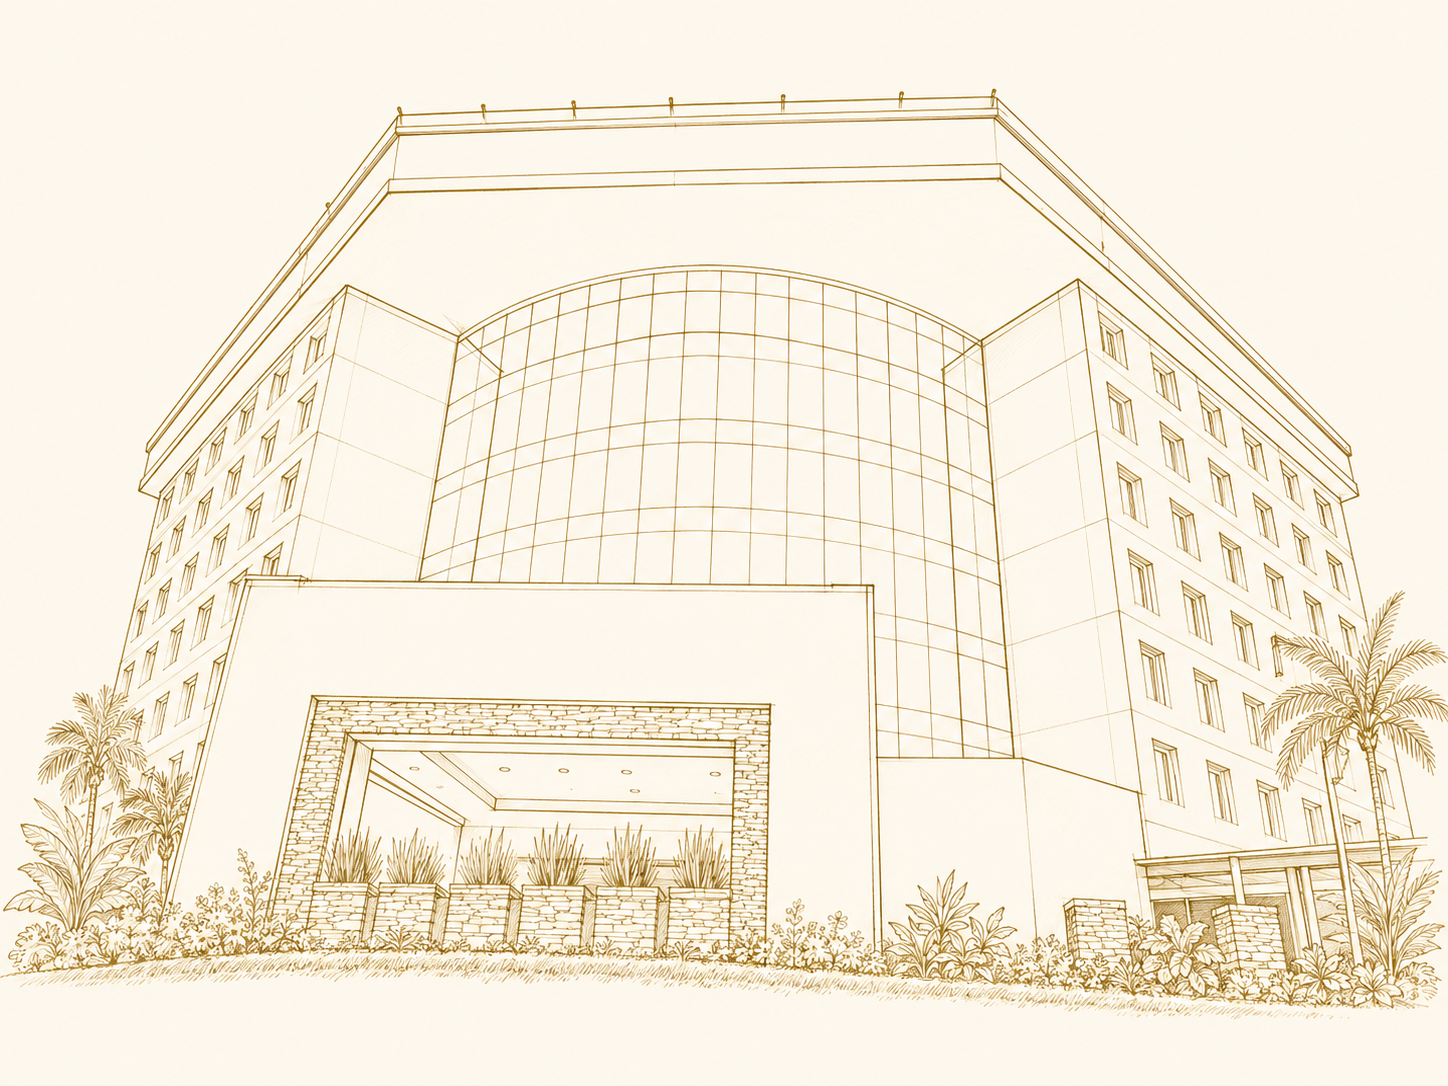
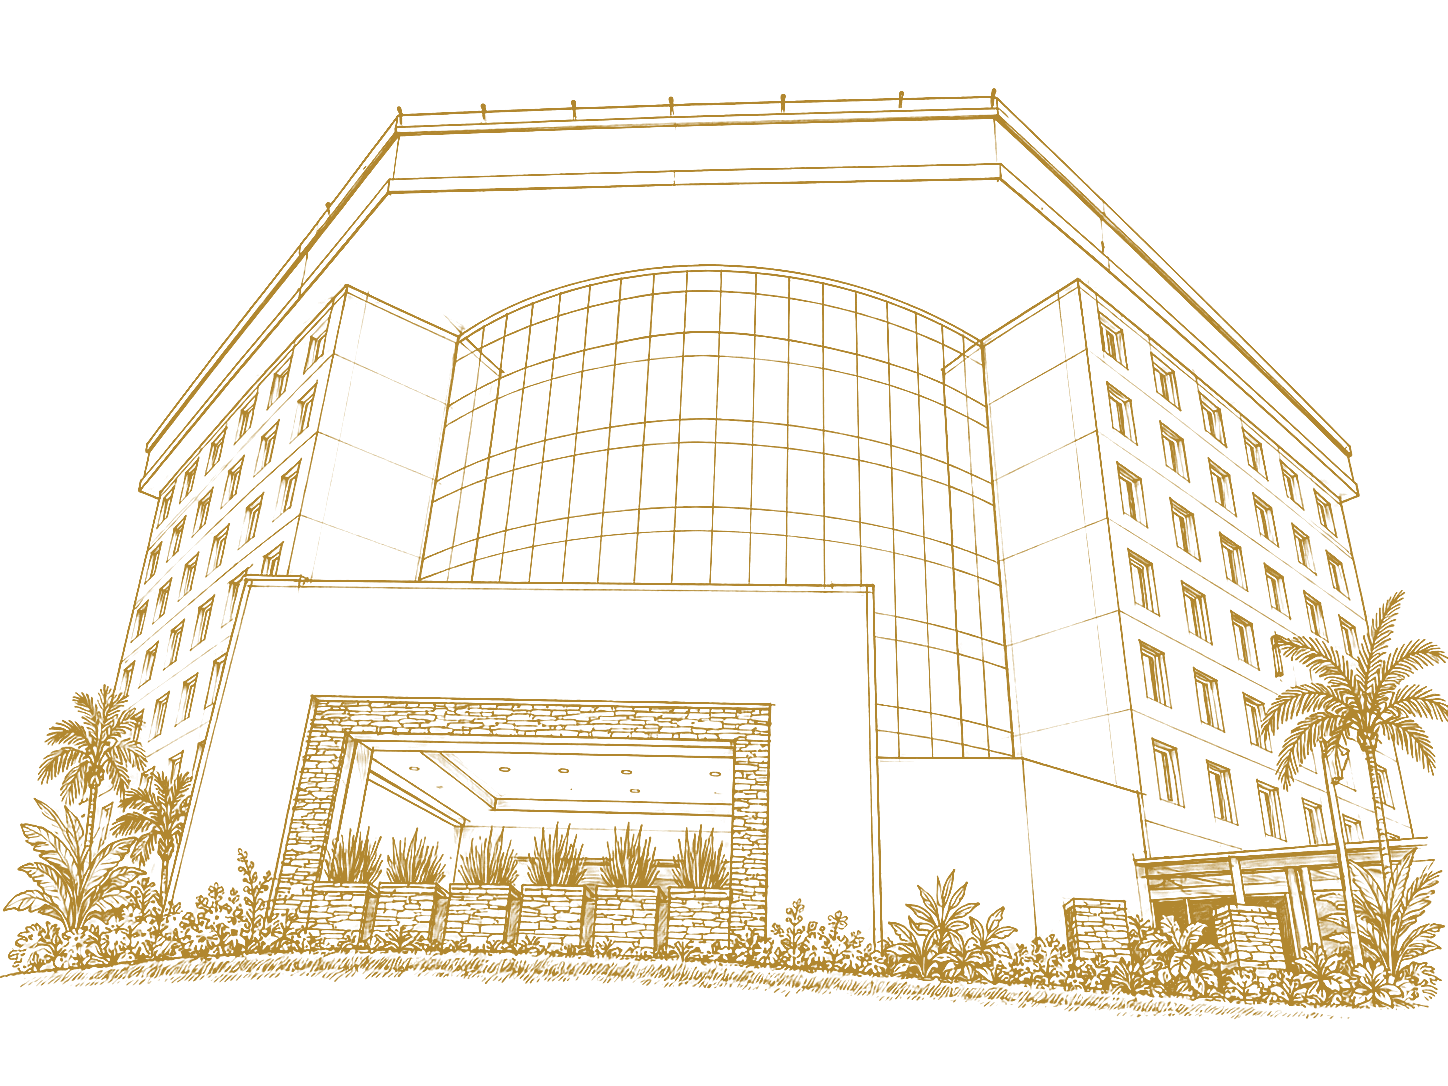
fix: aplica correcciones visuales finales

Changed region(s): [[0.0, 0.0912, 1.0, 0.942], [0.5905, 0.7597, 0.6215, 0.7901]]

diff --git a/src/styles.css b/src/styles.css
@@ -55,9 +55,9 @@ button:focus-visible, a:focus-visible, input:focus-visible, select:focus-visible
 .invitation-copy time { display: block; color: var(--burgundy); font: 400 1.42rem/1.3 var(--serif); letter-spacing: .03em; text-transform: uppercase; }
 .invitation-rings { display: block; width: 104px; height: auto; margin: 26px auto 0; object-fit: contain; }
 
-.countdown-section { position: relative; min-height: 540px; display: grid; place-items: center; isolation: isolate; color: var(--ivory); }
+.countdown-section { position: relative; min-height: 540px; display: grid; place-items: center; isolation: isolate; color: var(--ivory); box-shadow: 0 -26px 48px rgba(94, 26, 34, .3); }
 .countdown-section > img { position: absolute; inset: 0; z-index: -2; object-position: 50% 72%; }
-.countdown-veil { background: linear-gradient(180deg, rgba(38, 56, 32, .48), rgba(38, 56, 32, .82)); }
+.countdown-veil { background: linear-gradient(180deg, rgba(94, 26, 34, .5), rgba(65, 7, 13, .86)); }
 .countdown-content { position: relative; z-index: 2; width: 100%; padding: 78px 24px 94px; text-align: center; }
 .countdown-content h2 { margin: 0 0 24px; color: var(--gold-light); font: 500 clamp(1.7rem, 5.7vw, 2.65rem)/1 var(--serif); text-transform: uppercase; }
 .countdown-grid { display: grid; grid-template-columns: repeat(4, 1fr); gap: 10px; }
@@ -68,27 +68,28 @@ button:focus-visible, a:focus-visible, input:focus-visible, select:focus-visible
 .countdown-calendar { margin-top: 34px; }
 .countdown-calendar > p { margin: 0 0 4px; color: var(--gold-light); font: 600 .66rem/1.3 var(--sans); letter-spacing: .3em; text-transform: uppercase; }
 .countdown-calendar h3 { margin: 0 0 18px; font: 500 clamp(1.5rem, 5vw, 2.2rem)/1.1 var(--serif); letter-spacing: .05em; text-transform: uppercase; }
-.button--calendar { color: var(--green-deep); background: var(--gold-light); border-color: rgba(255, 255, 255, .28); box-shadow: 0 8px 24px rgba(0, 0, 0, .2); }
+.button--calendar { color: var(--burgundy-deep); background: var(--gold-light); border-color: rgba(255, 255, 255, .28); box-shadow: 0 8px 24px rgba(0, 0, 0, .2); }
 .button--calendar:hover { background: var(--ivory); }
 
 .section-heading { display: grid; justify-items: center; margin-bottom: 38px; }
 .section-heading h2 { margin: 0; font: 500 clamp(2rem, 7vw, 3.6rem)/1.08 var(--serif); letter-spacing: .04em; text-transform: uppercase; }
 .section-heading > span:last-child { width: 62px; height: 2px; margin-top: 20px; background: var(--gold); }
 .section-heading--light { color: var(--ivory); }
-.story-section { min-height: 700px; display: grid; align-content: center; color: var(--gold-light); background-color: var(--story-red); background-image: linear-gradient(118deg, transparent 0 23%, rgba(239, 216, 154, .1) 32%, transparent 42% 57%, rgba(239, 216, 154, .07) 66%, transparent 76%), var(--paper-texture); background-position: center; background-size: auto, 420px auto; background-blend-mode: screen, multiply; }
+.story-section { min-height: 790px; display: grid; align-content: center; color: var(--gold-light); background-color: var(--story-red); background-image: linear-gradient(118deg, transparent 0 23%, rgba(239, 216, 154, .1) 32%, transparent 42% 57%, rgba(239, 216, 154, .07) 66%, transparent 76%), var(--paper-texture); background-position: center; background-size: auto, 420px auto; background-blend-mode: screen, multiply; }
 .story-section .section-heading { position: relative; z-index: 1; margin-top: 120px; }
 .story-section .section-heading > p { color: var(--ivory); }
 .story-section .section-heading > span:last-child { background: var(--gold-light); }
-.story-section p { position: relative; z-index: 1; margin: 0 auto 24px; max-width: 510px; font: 400 1.08rem/1.86 var(--serif); }
+.story-section p { position: relative; z-index: 1; margin: 0 auto 30px; max-width: 530px; font-family: "Times New Roman", Times, serif; font-size: clamp(1.18rem, 3.2vw, 1.28rem); font-weight: 400; font-style: normal; line-height: 1.82; letter-spacing: .012em; }
+.story-section p strong, .story-section p b { font-weight: 400; }
 .story-mark { position: absolute; inset: 42% 0 auto; color: rgba(223, 201, 140, .09); font: 400 6.4rem/1 var(--script); transform: rotate(-8deg); pointer-events: none; }
-.photo-break { position: relative; margin: 0; height: 610px; overflow: hidden; background: var(--story-red); }
-.photo-break img { object-position: 50% 47%; filter: saturate(1.18) contrast(1.08) brightness(.96); }
+.photo-break { position: relative; margin: 0; height: 610px; overflow: hidden; background: var(--story-red); box-shadow: inset 0 26px 54px rgba(65, 7, 13, .2), inset 0 -28px 52px rgba(251, 247, 239, .18); }
+.photo-break img { object-position: 50% 47%; filter: saturate(1.12) contrast(1.04) brightness(.98) sepia(.06); transform: scale(1.012); }
 
 .details-section { padding-block: 100px 120px; }
 .details-section .section-heading h2, .agenda-section .section-heading h2, .gift-section .section-heading h2 { font-size: clamp(1.8rem, 6.3vw, 3.25rem); }
 .venue-card { width: min(100%, 455px); margin: 0 auto; padding: 42px 40px; background: rgba(251, 247, 239, .55); border: 1px solid var(--gold); box-shadow: 10px 10px 0 rgba(111, 17, 29, .06); }
 .venue-label { margin: 0 0 12px; color: var(--burgundy); font: 500 1.6rem/1.2 var(--serif); letter-spacing: .08em; text-transform: uppercase; }
-.hotel-illustration { display: block; width: min(100%, 310px); height: auto; margin: 16px auto 25px; mix-blend-mode: multiply; }
+.hotel-illustration { display: block; width: min(100%, 350px); height: auto; margin: 8px auto 18px; filter: drop-shadow(0 7px 12px rgba(111, 17, 29, .08)); }
 .venue-time { margin: 0 0 18px; font: 500 1.05rem/1.2 var(--serif); }
 .venue-card h3 { margin: 0 0 15px; color: var(--burgundy-deep); font: 500 2.4rem/1.12 var(--serif); text-transform: uppercase; }
 .venue-card address { font: normal 400 .92rem/1.7 var(--sans); color: var(--muted); }
@@ -122,13 +123,13 @@ button:focus-visible, a:focus-visible, input:focus-visible, select:focus-visible
 .dress-illustration-wrap { margin: -8px auto 30px; }
 .dress-illustration { display: block; width: min(100%, 390px); height: auto; margin-inline: auto; }
 .dress-section > p { max-width: 500px; margin: 0 auto 34px; font: 400 1rem/1.75 var(--serif); }
-.gift-section { min-height: 610px; display: grid; align-content: center; color: var(--ivory); background-color: var(--story-red); }
+.gift-section { min-height: 610px; display: grid; align-content: center; color: var(--ink); background-color: var(--ivory); }
 .gift-icon { margin: 0 auto 24px; color: var(--gold); font-size: 2.35rem; }
 .gift-section > p { max-width: 500px; margin: -6px auto 32px; font: 400 1.04rem/1.8 var(--serif); }
-.envelope-button { min-height: 50px; justify-self: center; display: inline-flex; align-items: center; gap: 10px; padding: 12px 24px; color: var(--burgundy); background: var(--ivory); border: 0; border-radius: 3px; cursor: pointer; }
+.envelope-button { min-height: 50px; justify-self: center; display: inline-flex; align-items: center; gap: 10px; padding: 12px 24px; color: var(--ivory); background: var(--burgundy); border: 0; border-radius: 3px; cursor: pointer; box-shadow: 0 8px 20px rgba(65, 7, 13, .16); }
 
-.rsvp-section { position: relative; padding: 90px 72px 110px; color: var(--ivory); background-color: var(--story-red); background-image: repeating-linear-gradient(0deg, rgba(223, 201, 140, .045) 0 1px, transparent 1px 4px), repeating-linear-gradient(90deg, rgba(223, 201, 140, .035) 0 1px, transparent 1px 4px), var(--paper-texture); background-position: center; background-size: auto, auto, 420px auto; background-blend-mode: soft-light, soft-light, multiply; text-align: center; }
-.rsvp-rings { display: block; width: 140px; height: auto; margin: 0 auto 30px; object-fit: contain; }
+.rsvp-section { position: relative; padding: 76px 72px 110px; color: var(--ivory); background-color: var(--story-red); background-image: radial-gradient(circle at 50% 8%, rgba(223, 201, 140, .12), transparent 34%), repeating-linear-gradient(0deg, rgba(223, 201, 140, .055) 0 1px, transparent 1px 4px), repeating-linear-gradient(90deg, rgba(223, 201, 140, .04) 0 1px, transparent 1px 4px), var(--paper-texture); background-position: center; background-size: auto, auto, auto, 420px auto; background-blend-mode: screen, soft-light, soft-light, multiply; text-align: center; }
+.rsvp-seal { display: block; width: 132px; height: 132px; margin: 0 auto 22px; object-fit: contain; filter: drop-shadow(0 8px 8px rgba(31, 5, 8, .34)); }
 .rsvp-deadline { max-width: 420px; margin: -8px auto 34px; font: 400 1rem/1.7 var(--serif); }
 .current-answer { max-width: 430px; margin: 0 auto 26px; padding: 12px 16px; color: var(--ivory); background: rgba(223, 201, 140, .14); border: 1px solid rgba(223, 201, 140, .42); font-size: .84rem; }
 .rsvp-form { width: min(100%, 450px); display: grid; gap: 27px; margin: 0 auto; text-align: left; }
@@ -166,13 +167,16 @@ button:focus-visible, a:focus-visible, input:focus-visible, select:focus-visible
 
 /* Each photograph blends into the actual color of its neighboring section. */
 .hero { --photo-edge-top: var(--ivory); --photo-edge-bottom: var(--ivory); }
-.countdown-section { --photo-edge-top: var(--ivory); --photo-edge-bottom: var(--story-red); }
+.countdown-section { --photo-edge-top: var(--story-red); --photo-edge-bottom: var(--story-red); }
 .photo-break { --photo-edge-top: var(--story-red); --photo-edge-bottom: var(--ivory); }
 .final-photo { --photo-edge-top: var(--story-red); --photo-edge-bottom: #211d1c; }
 :is(.hero, .countdown-section, .photo-break, .final-photo)::before,
 :is(.hero, .countdown-section, .photo-break, .final-photo)::after { content: ""; position: absolute; z-index: 1; left: 0; right: 0; height: clamp(72px, 15vw, 125px); pointer-events: none; }
 :is(.hero, .countdown-section, .photo-break, .final-photo)::before { top: 0; background: linear-gradient(to bottom, var(--photo-edge-top), transparent); }
 :is(.hero, .countdown-section, .photo-break, .final-photo)::after { bottom: 0; background: linear-gradient(to top, var(--photo-edge-bottom), transparent); }
+.countdown-section::before { height: clamp(92px, 19vw, 150px); background: linear-gradient(to bottom, var(--story-red) 0%, rgba(94, 26, 34, .76) 30%, rgba(94, 26, 34, 0) 100%); }
+.photo-break::before { height: clamp(100px, 21vw, 165px); background: linear-gradient(to bottom, var(--story-red) 0%, rgba(94, 26, 34, .82) 26%, rgba(94, 26, 34, .28) 62%, transparent 100%); }
+.photo-break::after { height: clamp(84px, 17vw, 126px); background: linear-gradient(to top, var(--ivory) 0%, rgba(245, 239, 228, .78) 22%, rgba(198, 161, 91, .13) 58%, transparent 100%); }
 .decorative-arcs { position: absolute; inset: 20px 0; width: 100%; height: calc(100% - 40px); color: var(--gold); stroke: currentColor; stroke-width: 1.15; pointer-events: none; }
 .arc-secondary { opacity: .35; stroke-width: .65; }
 .story-section .decorative-arcs { color: var(--gold-light); opacity: .8; }
@@ -226,7 +230,8 @@ button:focus-visible, a:focus-visible, input:focus-visible, select:focus-visible
   .countdown-grid { gap: 2px; }
   .countdown-item strong { font-size: 1.7rem; }
   .countdown-item span { font-size: .56rem; }
-  .story-section { min-height: 650px; padding-inline: 46px; }
+  .story-section { min-height: 760px; padding-inline: 40px; }
+  .story-section p { font-size: 1.15rem; line-height: 1.78; }
   .story-mark { inset-block-start: 45%; font-size: 4.2rem; }
   .photo-break { height: 540px; }
   .venue-card { padding: 44px 24px; }

diff --git a/src/App.jsx b/src/App.jsx
@@ -179,7 +179,7 @@ function RSVP() {
 
   return (
     <section className="rsvp-section" id="rsvp" aria-labelledby="rsvp-title">
-      <img className="rsvp-rings" src={assetPath("gold-rings.webp")} alt="" />
+      <img className="rsvp-seal" src={assetPath("gold-wax-seal-gm.png")} alt="" />
       <SectionHeading eyebrow="¿Nos acompañas?" light>
         <span id="rsvp-title">Confirma tu asistencia</span>
       </SectionHeading>
